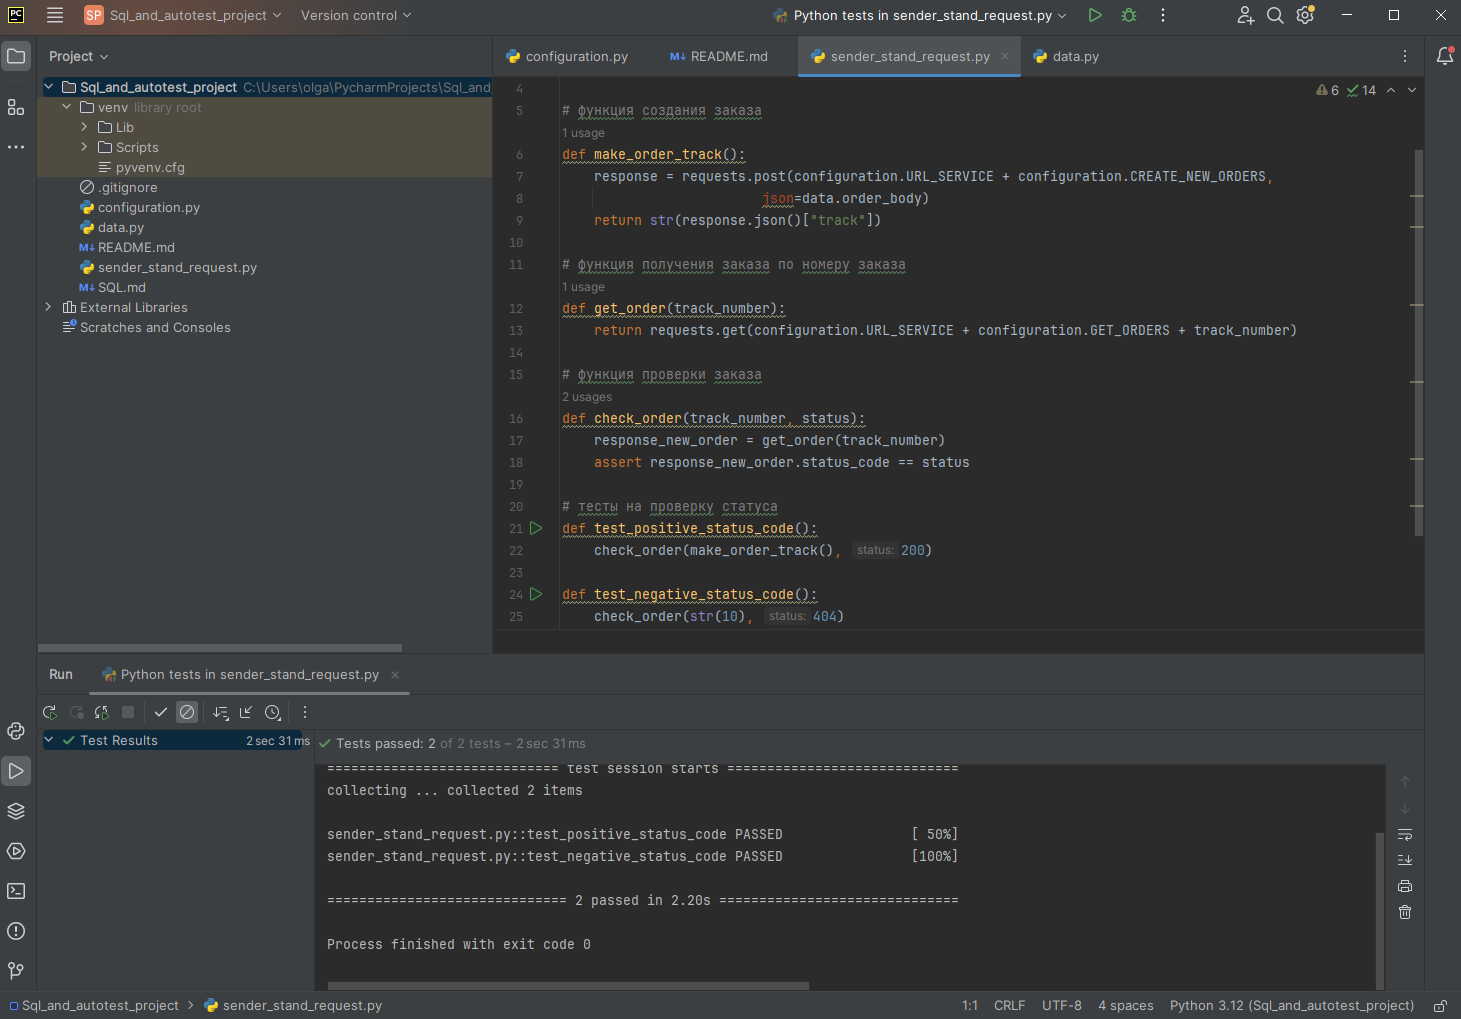
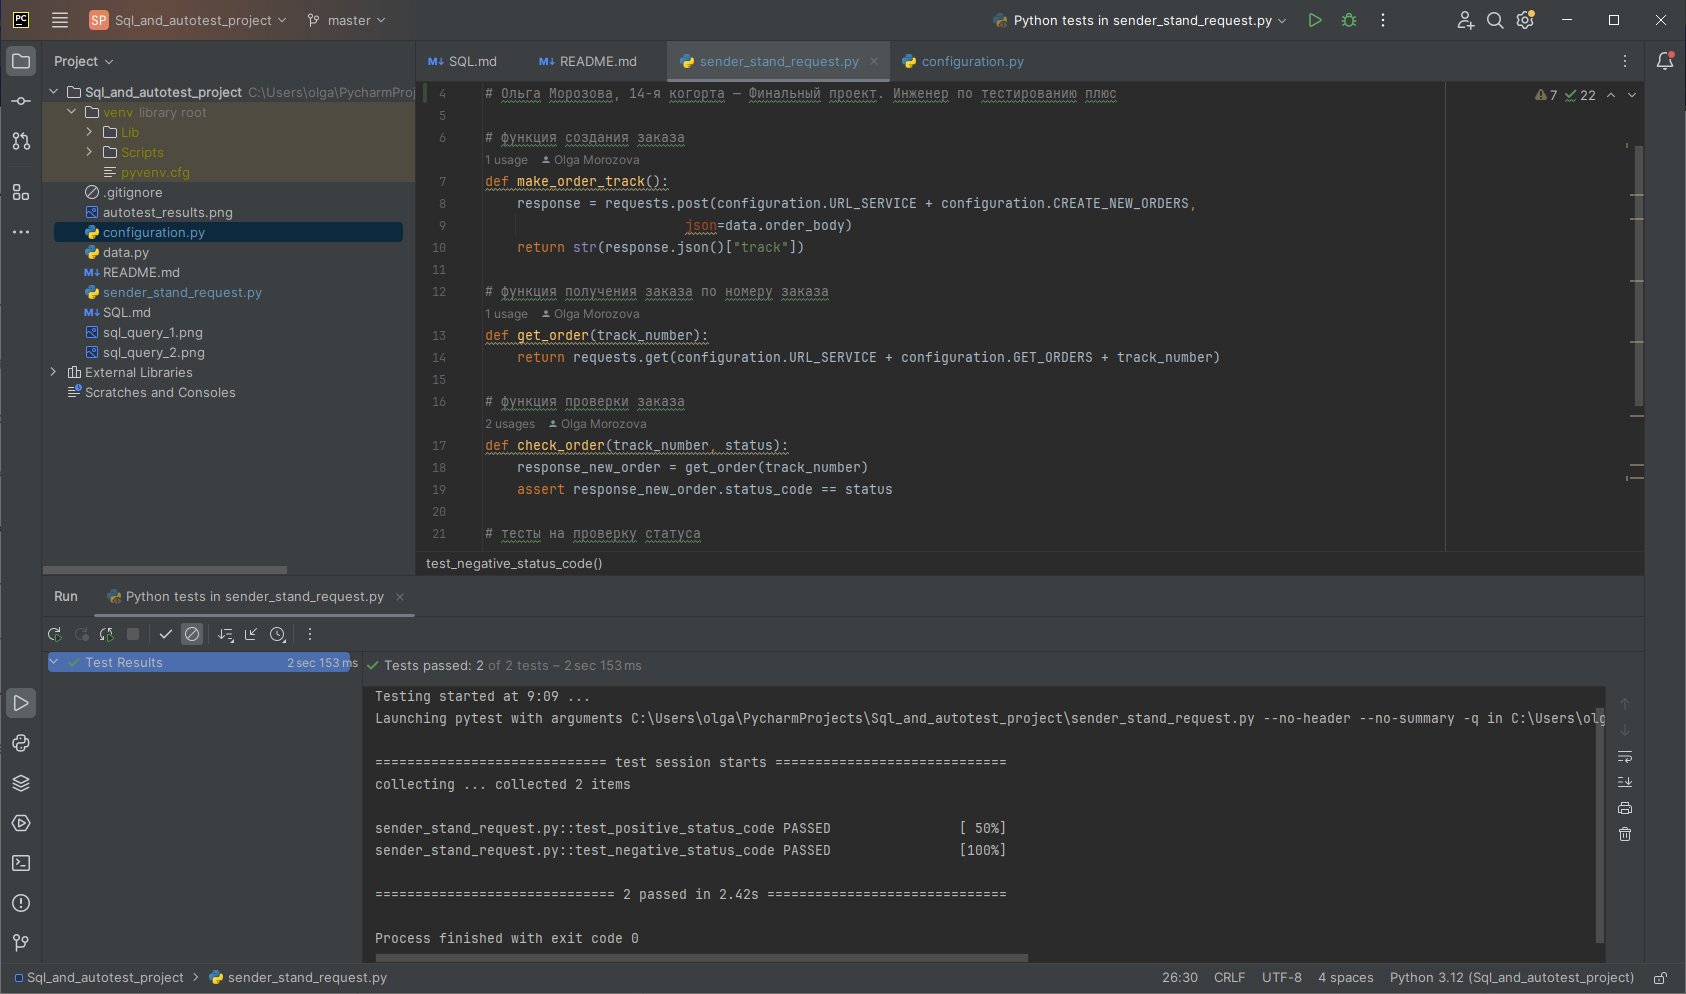
update sender_stand_request.py, autotest_results.png

diff --git a/sender_stand_request.py b/sender_stand_request.py
@@ -1,6 +1,7 @@
 import configuration
 import requests
 import data
+# Ольга Морозова, 14-я когорта — Финальный проект. Инженер по тестированию плюс
 
 # функция создания заказа
 def make_order_track():

diff --git a/configuration.py b/configuration.py
@@ -1,3 +1,3 @@
-URL_SERVICE = "https://68b0eca5-2eab-424b-aa7a-b56d7c658e73.serverhub.praktikum-services.ru"
+URL_SERVICE = "https://89449384-ab6e-4cee-90b6-0a21817ef2da.serverhub.praktikum-services.ru"
 CREATE_NEW_ORDERS = "/api/v1/orders"
 GET_ORDERS = "/api/v1/orders/track?t="
